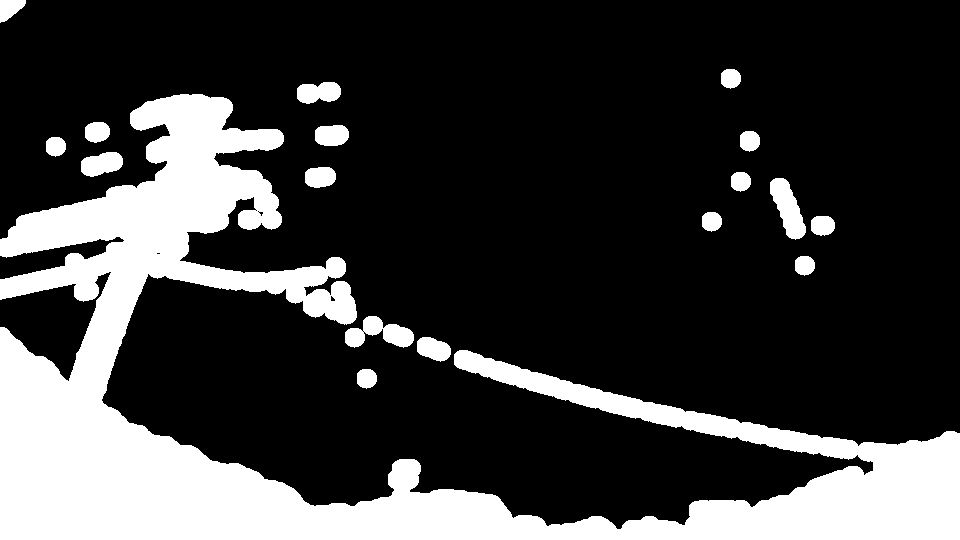
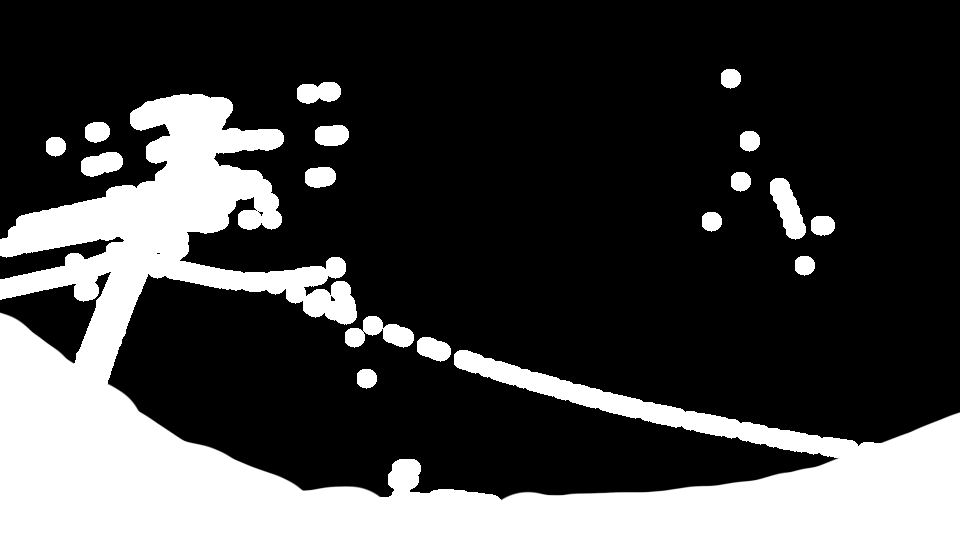
FB設定項目をdocker-compose.ymlに追加 - `FB_NORMALIZE`と`FB_DELETE_MOV`を環境変数として追加 .gitignoreを更新 - `/scaffold/`と`/scripts/pre_publish_leak_check.sh`を追記 マスク画像を差し替え

diff --git a/meteor_detector.py b/meteor_detector.py
@@ -111,6 +111,144 @@ class DetectionParams:
     exclude_bottom_ratio: float = 1/16  # 下部の除外範囲（0-1）
 
 
+def clone_detection_params(params: DetectionParams) -> DetectionParams:
+    """DetectionParamsを複製"""
+    return DetectionParams(**vars(params))
+
+
+def apply_sensitivity_preset(params: DetectionParams, sensitivity: str) -> None:
+    """感度プリセットを適用"""
+    if sensitivity == "low":
+        params.diff_threshold = 40
+        params.min_brightness = 220
+        params.min_length = 30
+        params.min_speed = 8.0
+    elif sensitivity == "high":
+        params.diff_threshold = 20
+        params.min_brightness = 180
+        params.min_length = 15
+        params.min_speed = 3.0
+    elif sensitivity == "fireball":
+        # 火球検出モード: 長時間・長距離・明るい流星に最適化
+        params.diff_threshold = 15        # 低い閾値で検出しやすく
+        params.min_brightness = 150       # 暗めでも検出
+        params.min_length = 30            # ある程度の長さは必要
+        params.max_length = 10000         # 画面全体を横断してもOK
+        params.min_duration = 3           # 最低3フレーム
+        params.max_duration = 600         # 20秒@30fps まで対応
+        params.min_speed = 1.0            # 遅い火球も検出
+        params.min_linearity = 0.6        # 多少曲がってもOK
+        params.max_area = 20000           # 大きな光点も対応
+        params.max_gap_frames = 10        # 明滅にも対応
+        params.max_distance = 150         # 速い火球の追跡にも対応
+
+
+def build_seek_candidates(base: DetectionParams, max_trials: int) -> List[DetectionParams]:
+    """seekモード用に段階的に緩和した候補を生成"""
+    max_trials = max(1, max_trials)
+    candidates: List[DetectionParams] = []
+    seen = set()
+
+    # 0段階目は現在の設定をそのまま使う。段階が進むほど検出条件を緩和する。
+    for level in range(max_trials):
+        trial = clone_detection_params(base)
+        relax = min(level, 6)
+
+        if relax >= 1:
+            trial.diff_threshold = max(5, int(round(base.diff_threshold - 5)))
+            trial.min_brightness = max(80, int(round(base.min_brightness - 10)))
+        if relax >= 2:
+            trial.min_length = max(8, int(round(base.min_length - 5)))
+            trial.min_speed = max(0.5, base.min_speed * 0.8)
+        if relax >= 3:
+            trial.diff_threshold = max(5, int(round(base.diff_threshold - 10)))
+            trial.min_brightness = max(60, int(round(base.min_brightness - 20)))
+            trial.min_linearity = max(0.5, base.min_linearity - 0.05)
+            trial.max_gap_frames = max(base.max_gap_frames, base.max_gap_frames + 2)
+            trial.max_distance = max(base.max_distance, base.max_distance + 20)
+        if relax >= 4:
+            trial.min_length = max(5, int(round(base.min_length - 10)))
+            trial.min_speed = max(0.3, base.min_speed * 0.6)
+            trial.min_area = max(3, int(round(base.min_area - 2)))
+        if relax >= 5:
+            trial.diff_threshold = max(5, int(round(base.diff_threshold - 15)))
+            trial.min_brightness = max(40, int(round(base.min_brightness - 35)))
+            trial.min_linearity = max(0.45, base.min_linearity - 0.1)
+            trial.max_gap_frames = max(base.max_gap_frames, base.max_gap_frames + 5)
+            trial.max_distance = max(base.max_distance, base.max_distance + 50)
+        if relax >= 6:
+            trial.diff_threshold = max(5, int(round(base.diff_threshold - 20)))
+            trial.min_brightness = max(30, int(round(base.min_brightness - 50)))
+            trial.min_speed = max(0.2, base.min_speed * 0.4)
+            trial.min_linearity = max(0.4, base.min_linearity - 0.15)
+            trial.max_gap_frames = max(base.max_gap_frames, base.max_gap_frames + 8)
+            trial.max_distance = max(base.max_distance, base.max_distance + 80)
+            trial.max_duration = max(base.max_duration, int(round(base.max_duration * 1.5)))
+            trial.max_area = max(base.max_area, int(round(base.max_area * 1.5)))
+
+        key = (
+            trial.diff_threshold,
+            trial.min_brightness,
+            trial.min_length,
+            round(trial.min_speed, 4),
+            round(trial.min_linearity, 4),
+            trial.min_area,
+            trial.max_area,
+            trial.max_gap_frames,
+            round(trial.max_distance, 4),
+            trial.max_duration,
+        )
+        if key not in seen:
+            seen.add(key)
+            candidates.append(trial)
+
+    return candidates
+
+
+def seek_detection_params(
+    input_path: str,
+    base_params: DetectionParams,
+    *,
+    max_trials: int,
+    process_scale: float,
+    frame_skip: int,
+    use_threading: bool,
+) -> Tuple[DetectionParams, List[MeteorCandidate]]:
+    """流星が検出できるまでパラメータを探索"""
+    candidates = build_seek_candidates(base_params, max_trials=max_trials)
+    print(f"seekモード: 最大{len(candidates)}回の探索を実行します")
+
+    best_params = clone_detection_params(base_params)
+    for idx, trial_params in enumerate(candidates, start=1):
+        print(
+            f"\n[seek {idx}/{len(candidates)}] "
+            f"diff={trial_params.diff_threshold}, "
+            f"brightness={trial_params.min_brightness}, "
+            f"length={trial_params.min_length}, "
+            f"speed={trial_params.min_speed:.2f}, "
+            f"linearity={trial_params.min_linearity:.2f}"
+        )
+        meteors = process_video(
+            input_path,
+            output_path=None,
+            params=trial_params,
+            show_preview=False,
+            save_json=False,
+            save_images=False,
+            image_output_dir=None,
+            process_scale=process_scale,
+            frame_skip=frame_skip,
+            use_threading=use_threading,
+        )
+        best_params = trial_params
+        if meteors:
+            print(f"\nseek成功: {idx}回目で{len(meteors)}件検出")
+            return trial_params, meteors
+
+    print("\nseek失敗: 指定回数内では検出できませんでした。最終試行のパラメータを採用します。")
+    return best_params, []
+
+
 class FrameBuffer:
     """フレームバッファ（ノイズ除去用）"""
 
@@ -1055,6 +1193,9 @@ def main():
   # 火球検出モード（長時間・長距離の明るい流星）
   python meteor_detector.py input.mp4 --sensitivity fireball
 
+  # seekモード（検出できるまで段階的にパラメータ探索）
+  python meteor_detector.py input.mp4 --seek --seek-max-trials 8
+
   # 流星クリップを切り出し
   python meteor_detector.py input.mp4 --extract-clips
 
@@ -1081,6 +1222,10 @@ def main():
                        help="プレビューを表示")
     parser.add_argument("--sensitivity", choices=["low", "medium", "high", "fireball"],
                        default="medium", help="検出感度 (default: medium, fireball=火球検出モード)")
+    parser.add_argument("--seek", action="store_true",
+                       help="検出できるまで段階的にパラメータを探索してから本処理を実行")
+    parser.add_argument("--seek-max-trials", type=int, default=6,
+                       help="seekモードの最大試行回数 (default: 6)")
     parser.add_argument("--extract-clips", dest="extract_clips", action="store_true", default=True,
                        help="流星クリップを切り出して保存 (デフォルト: 有効)")
     parser.add_argument("--no-clips", dest="extract_clips", action="store_false",
@@ -1133,29 +1278,7 @@ def main():
     params = DetectionParams()
 
     # 感度プリセット
-    if args.sensitivity == "low":
-        params.diff_threshold = 40
-        params.min_brightness = 220
-        params.min_length = 30
-        params.min_speed = 8.0
-    elif args.sensitivity == "high":
-        params.diff_threshold = 20
-        params.min_brightness = 180
-        params.min_length = 15
-        params.min_speed = 3.0
-    elif args.sensitivity == "fireball":
-        # 火球検出モード: 長時間・長距離・明るい流星に最適化
-        params.diff_threshold = 15        # 低い閾値で検出しやすく
-        params.min_brightness = 150       # 暗めでも検出
-        params.min_length = 30            # ある程度の長さは必要
-        params.max_length = 10000         # 画面全体を横断してもOK
-        params.min_duration = 3           # 最低3フレーム
-        params.max_duration = 600         # 20秒@30fps まで対応
-        params.min_speed = 1.0            # 遅い火球も検出
-        params.min_linearity = 0.6        # 多少曲がってもOK
-        params.max_area = 20000           # 大きな光点も対応
-        params.max_gap_frames = 10        # 明滅にも対応
-        params.max_distance = 150         # 速い火球の追跡にも対応
+    apply_sensitivity_preset(params, args.sensitivity)
 
     # 個別パラメータ上書き
     if args.diff_threshold:
@@ -1177,6 +1300,8 @@ def main():
 
     # 処理実行
     if args.realtime:
+        if args.seek:
+            print("[WARN] --seek は通常検出モード専用です。--realtime では無視されます。")
         process_video_realtime(
             args.input,
             output_dir=args.output_dir,
@@ -1191,6 +1316,16 @@ def main():
             mask_save=args.mask_save.strip() if args.mask_save else None,
         )
         return
+
+    if args.seek:
+        params, _ = seek_detection_params(
+            args.input,
+            params,
+            max_trials=args.seek_max_trials,
+            process_scale=process_scale,
+            frame_skip=frame_skip,
+            use_threading=not args.no_threading,
+        )
 
     meteors = process_video(
         args.input,

diff --git a/documents/DOCKER_ARCHITECTURE.md b/documents/DOCKER_ARCHITECTURE.md
@@ -168,7 +168,7 @@ graph TB
 | 変数名 | 値 | 説明 |
 |-------|-----|------|
 | `TZ` | `Asia/Tokyo` | タイムゾーン |
-| `RTSP_URL` | `rtsp://6199:4003@10.0.1.25/live` | RTSPストリームURL |
+| `RTSP_URL` | `rtsp://username:password@192.168.1.100/live` | RTSPストリームURL |
 | `CAMERA_NAME` | `camera1_10_0_1_25` | カメラ識別名（ディレクトリ名） |
 | `SENSITIVITY` | `medium` | 感度 (low/medium/high/fireball) |
 | `SCALE` | `0.5` | 処理スケール (0.0-1.0) |
@@ -722,16 +722,16 @@ sequenceDiagram
 
 **入力 (streamers)**:
 ```
-rtsp://6199:4003@10.0.1.25/live
-rtsp://6199:4003@10.0.1.3/live
+rtsp://username:password@192.168.1.100/live
+rtsp://username:password@192.168.1.101/live
 ```
 
 ※ 昼間画像を指定する場合は `| camera1.jpg` のように行末に追加します。
 
 **出力 (docker-compose.yml)**:
 - ダッシュボード: `localhost:8080`
-- カメラ1 (10.0.1.25): `localhost:8081`
-- カメラ2 (10.0.1.3): `localhost:8082`
+- カメラ1 (192.168.1.100): `localhost:8081`
+- カメラ2 (192.168.1.101): `localhost:8082`
 
 ### カメラ削除手順
 
